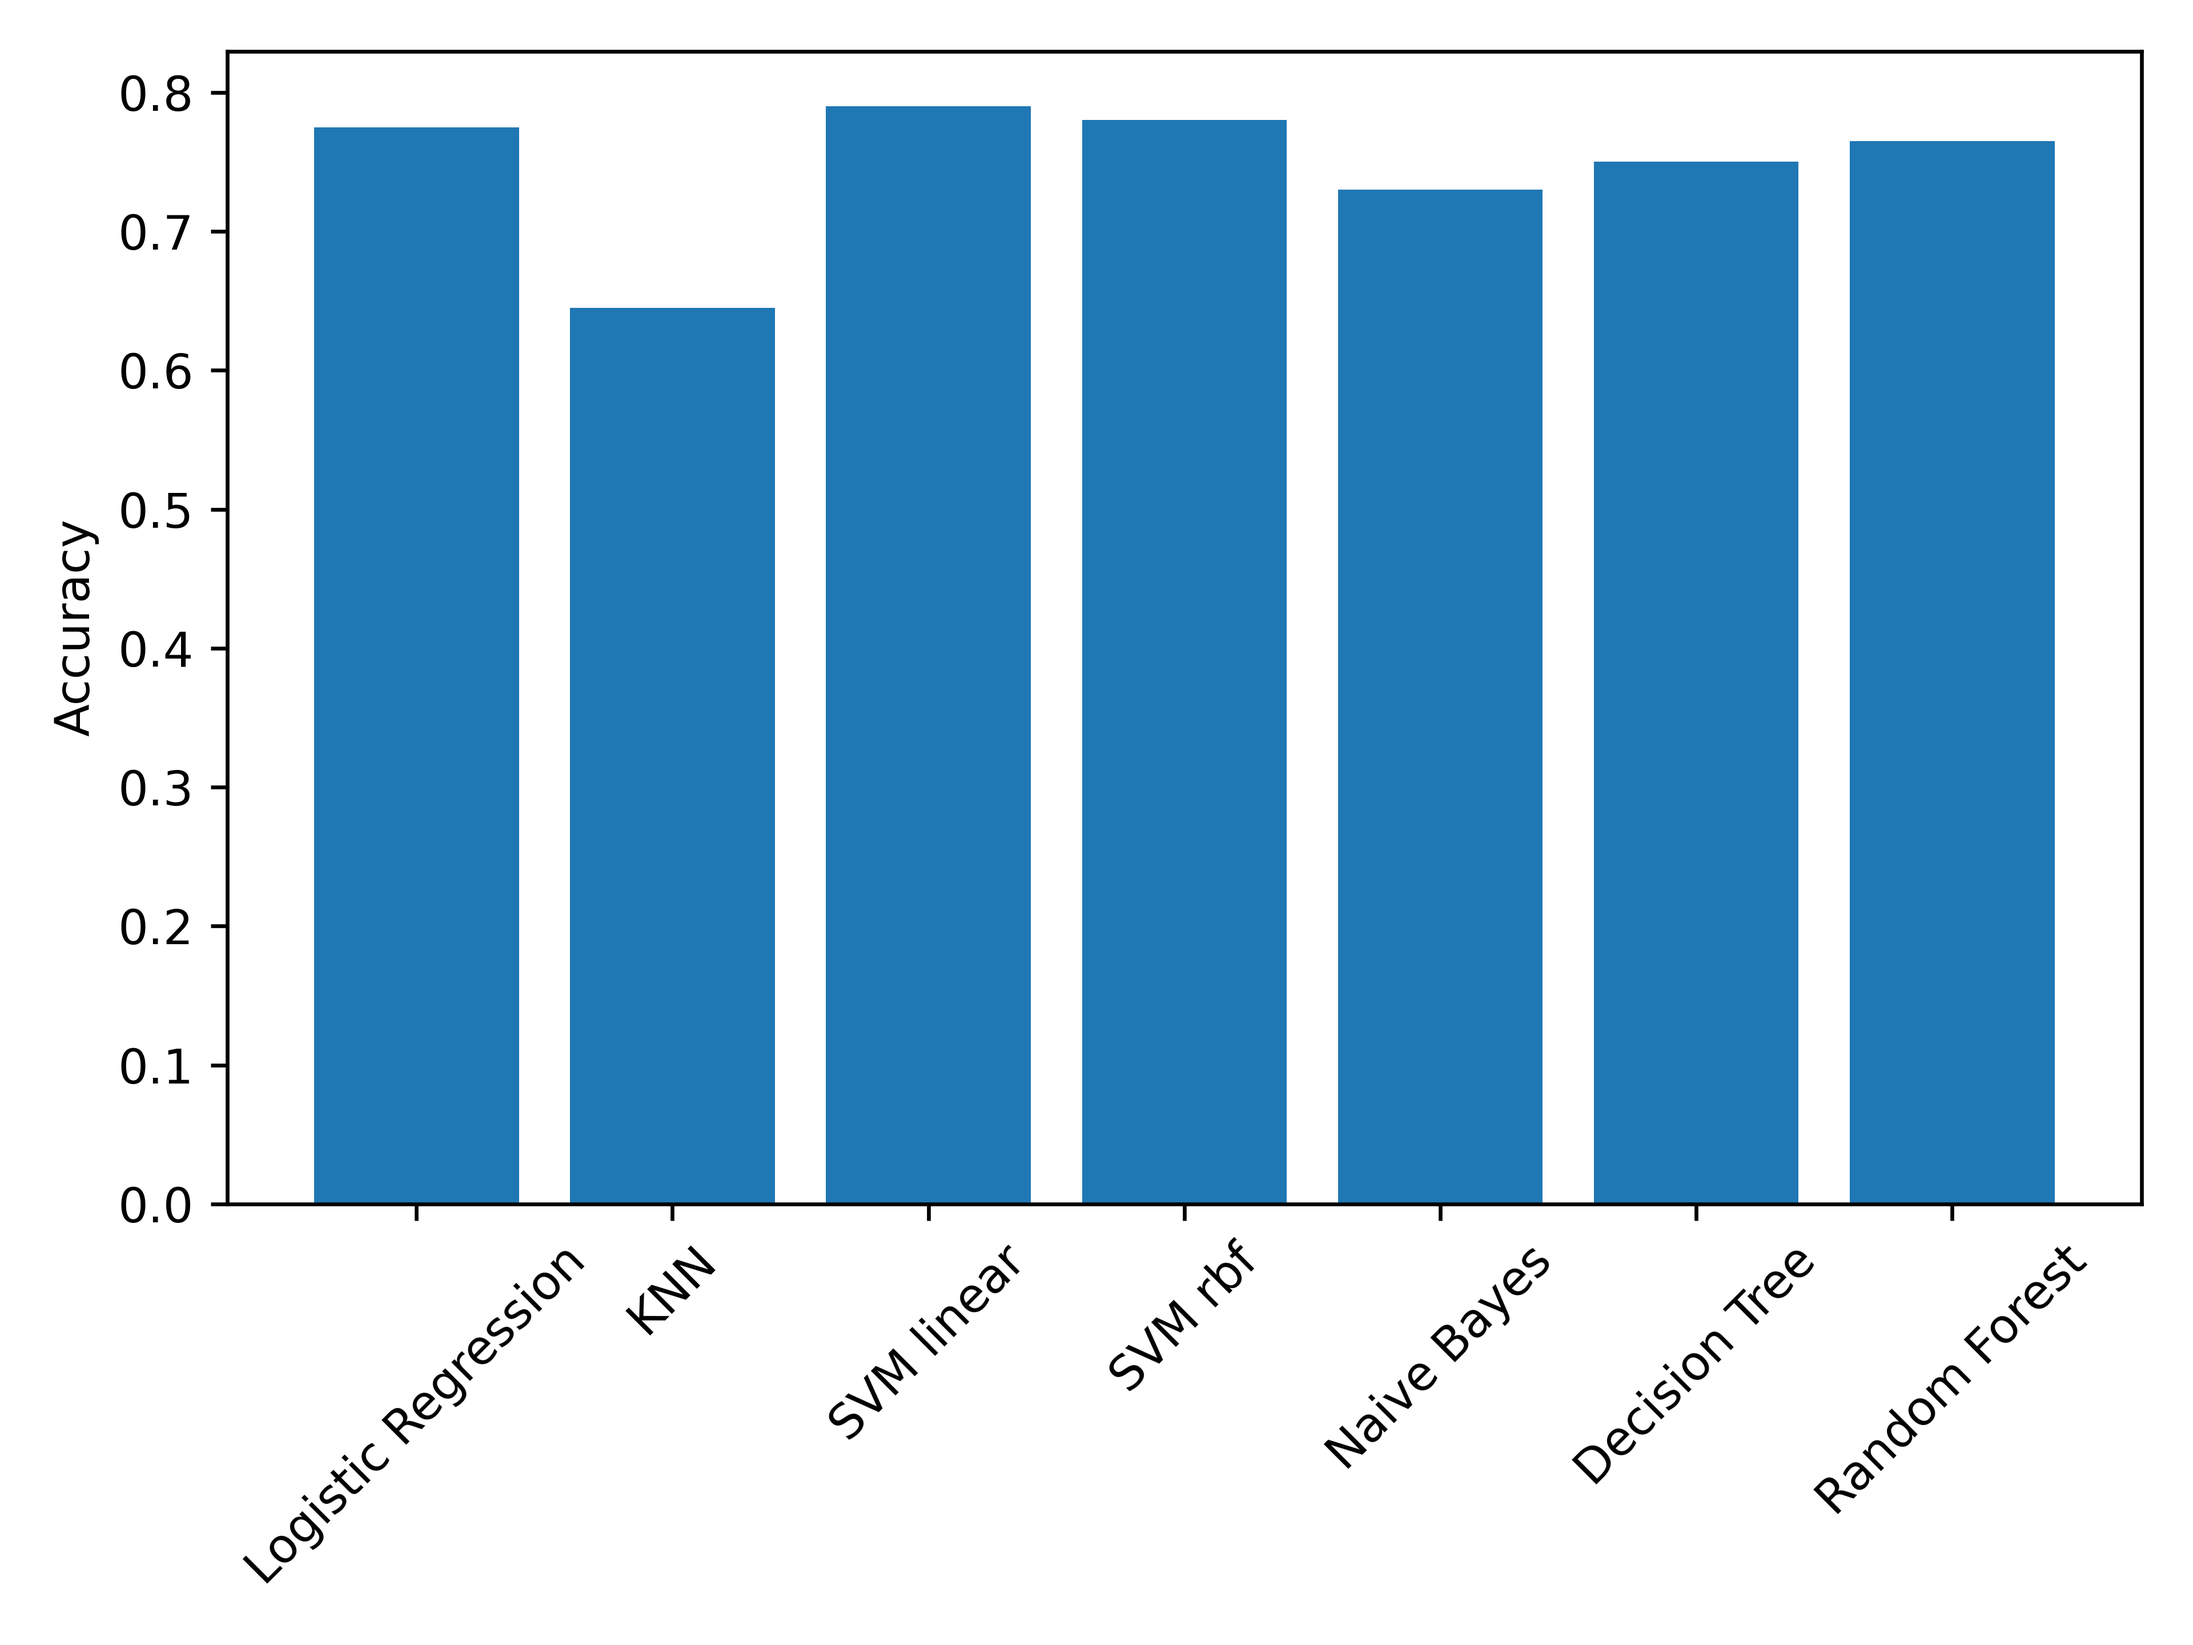
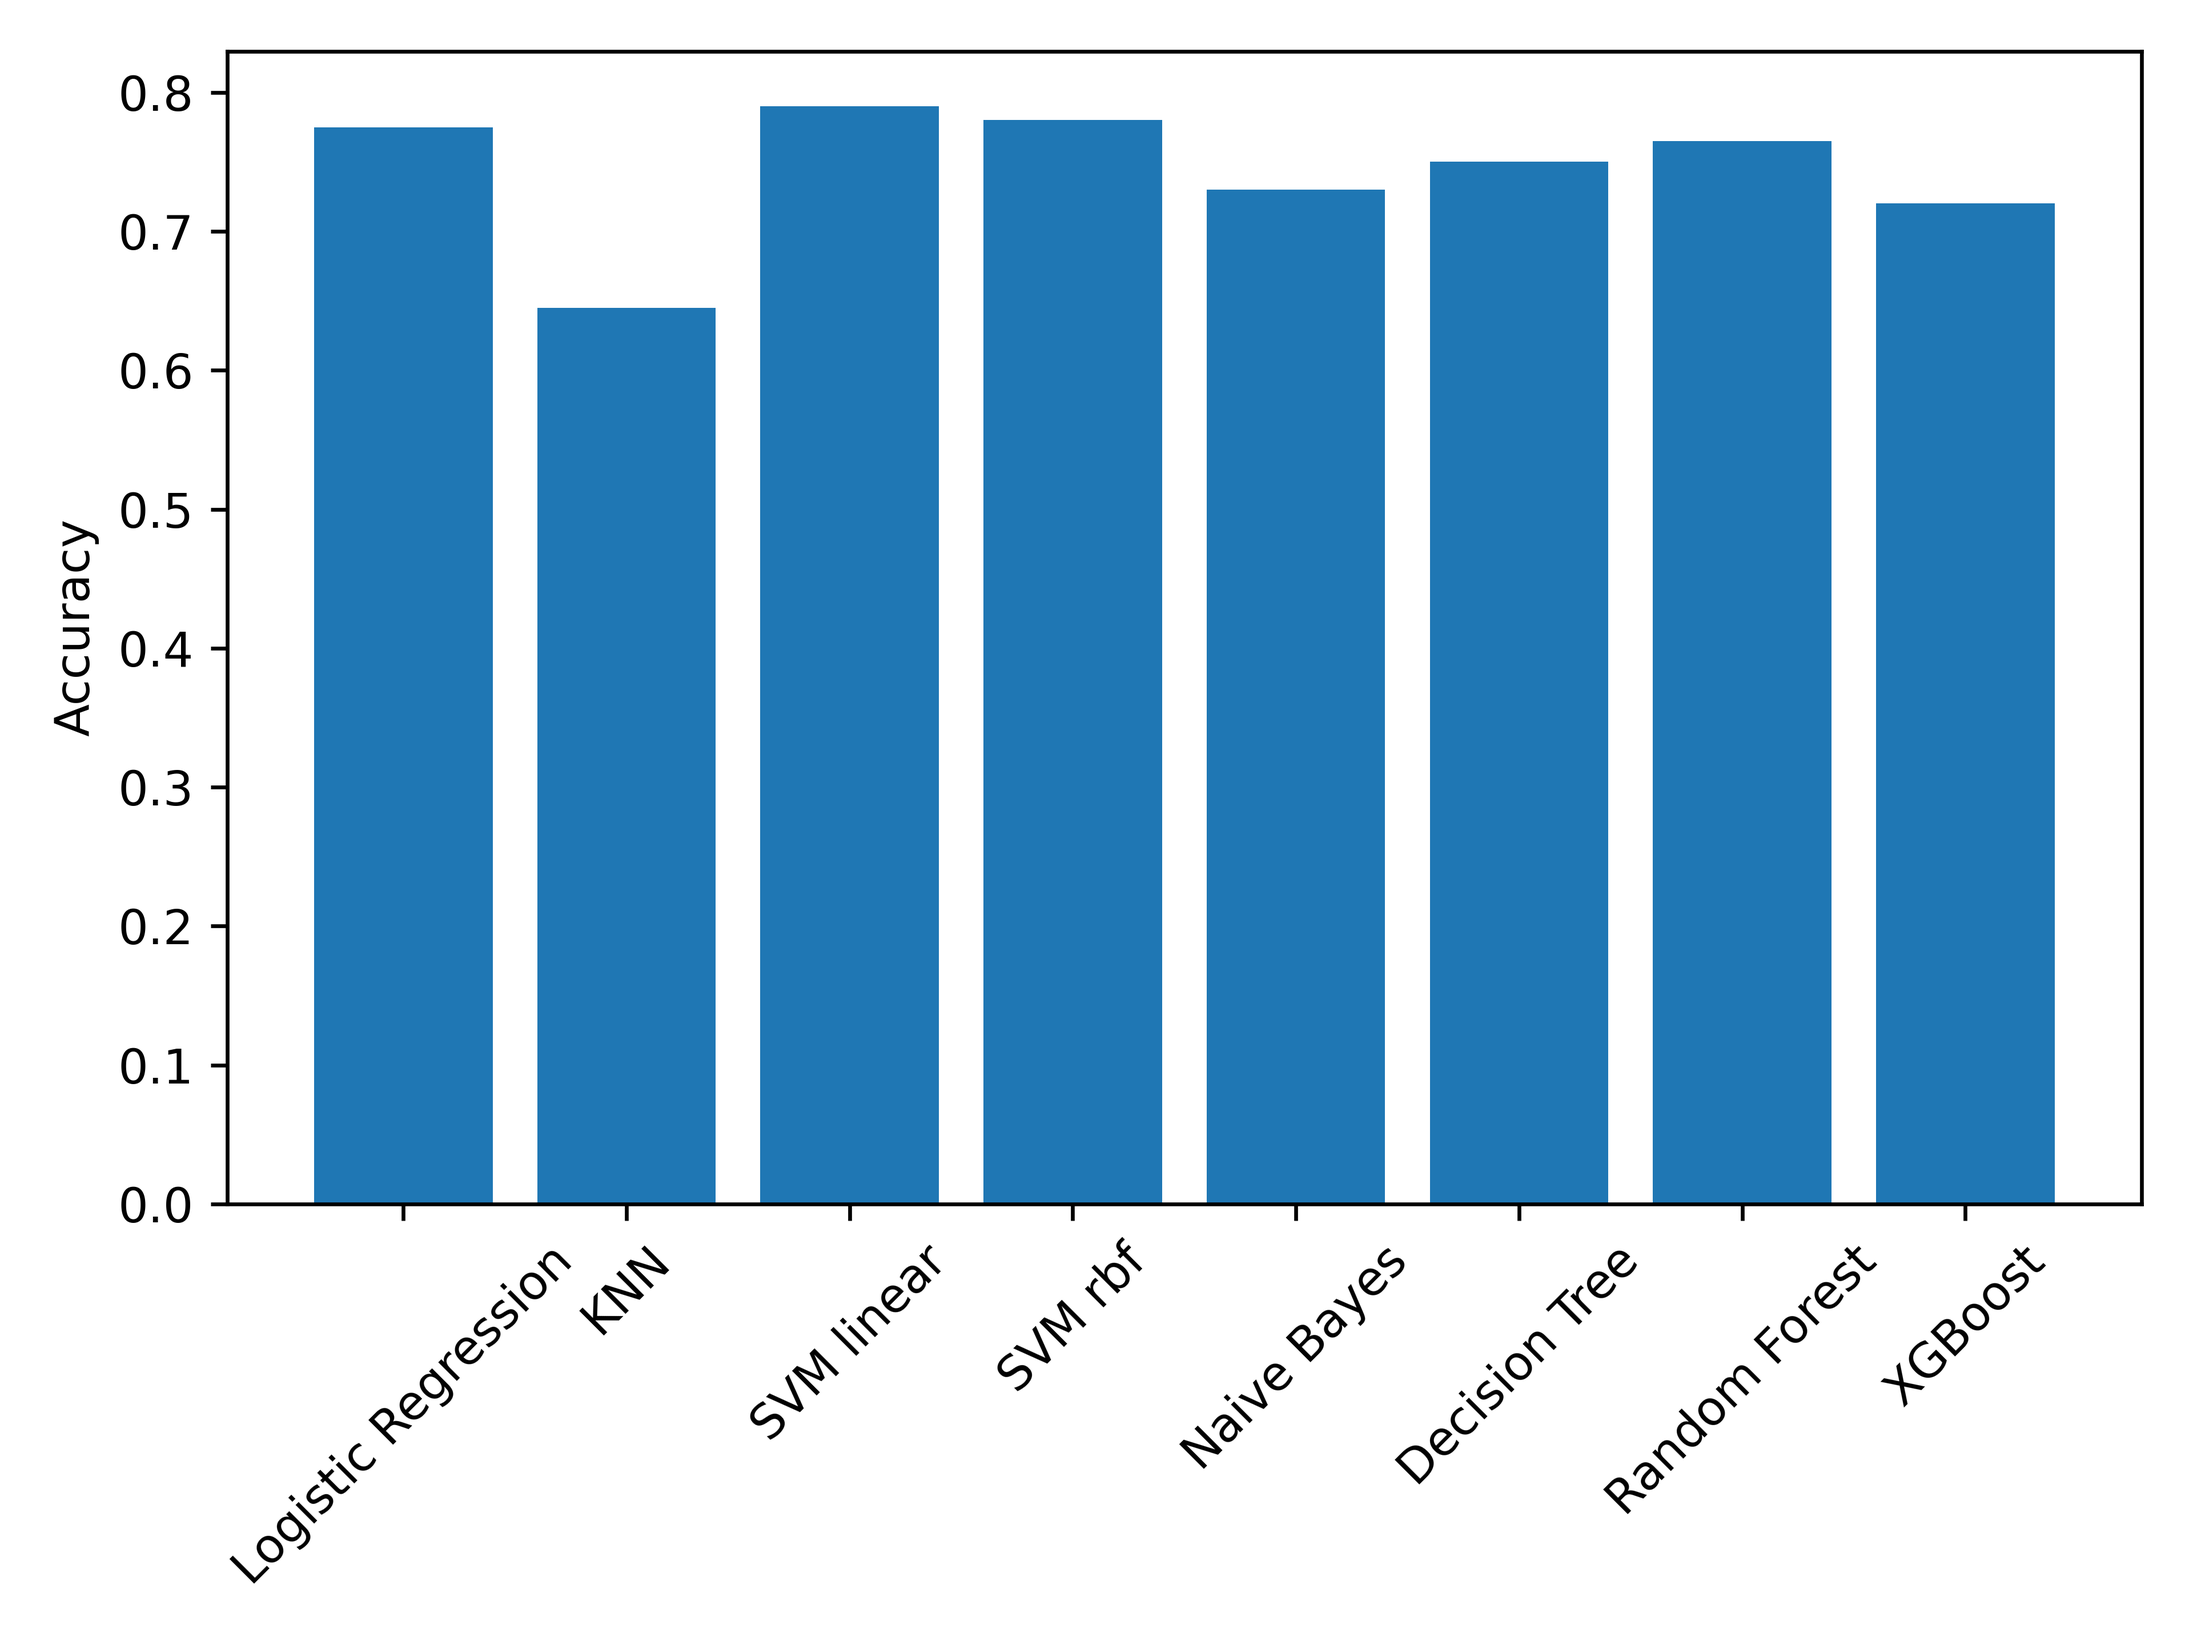
add xgboost

diff --git a/natural_language_processing.py b/natural_language_processing.py
@@ -21,6 +21,8 @@ import sklearn.neighbors
 import sklearn.tree
 import sklearn.svm
 
+import xgboost
+
 
 def clean_reviews(reviews):
     """Clean the text of the reviews."""
@@ -98,6 +100,7 @@ def main():
         "Naive Bayes",
         "Decision Tree",
         "Random Forest",
+        "XGBoost",
     )
     classifiers = (
         sklearn.linear_model.LogisticRegression(random_state=0),
@@ -107,6 +110,7 @@ def main():
         sklearn.naive_bayes.GaussianNB(),
         sklearn.tree.DecisionTreeClassifier(criterion="entropy", random_state=0),
         sklearn.ensemble.RandomForestClassifier(criterion="entropy", random_state=0),
+        xgboost.XGBClassifier(),
     )
     accuracy = train_models(
         X_train, X_test, y_train, y_test, classifiers, classifiers_names
